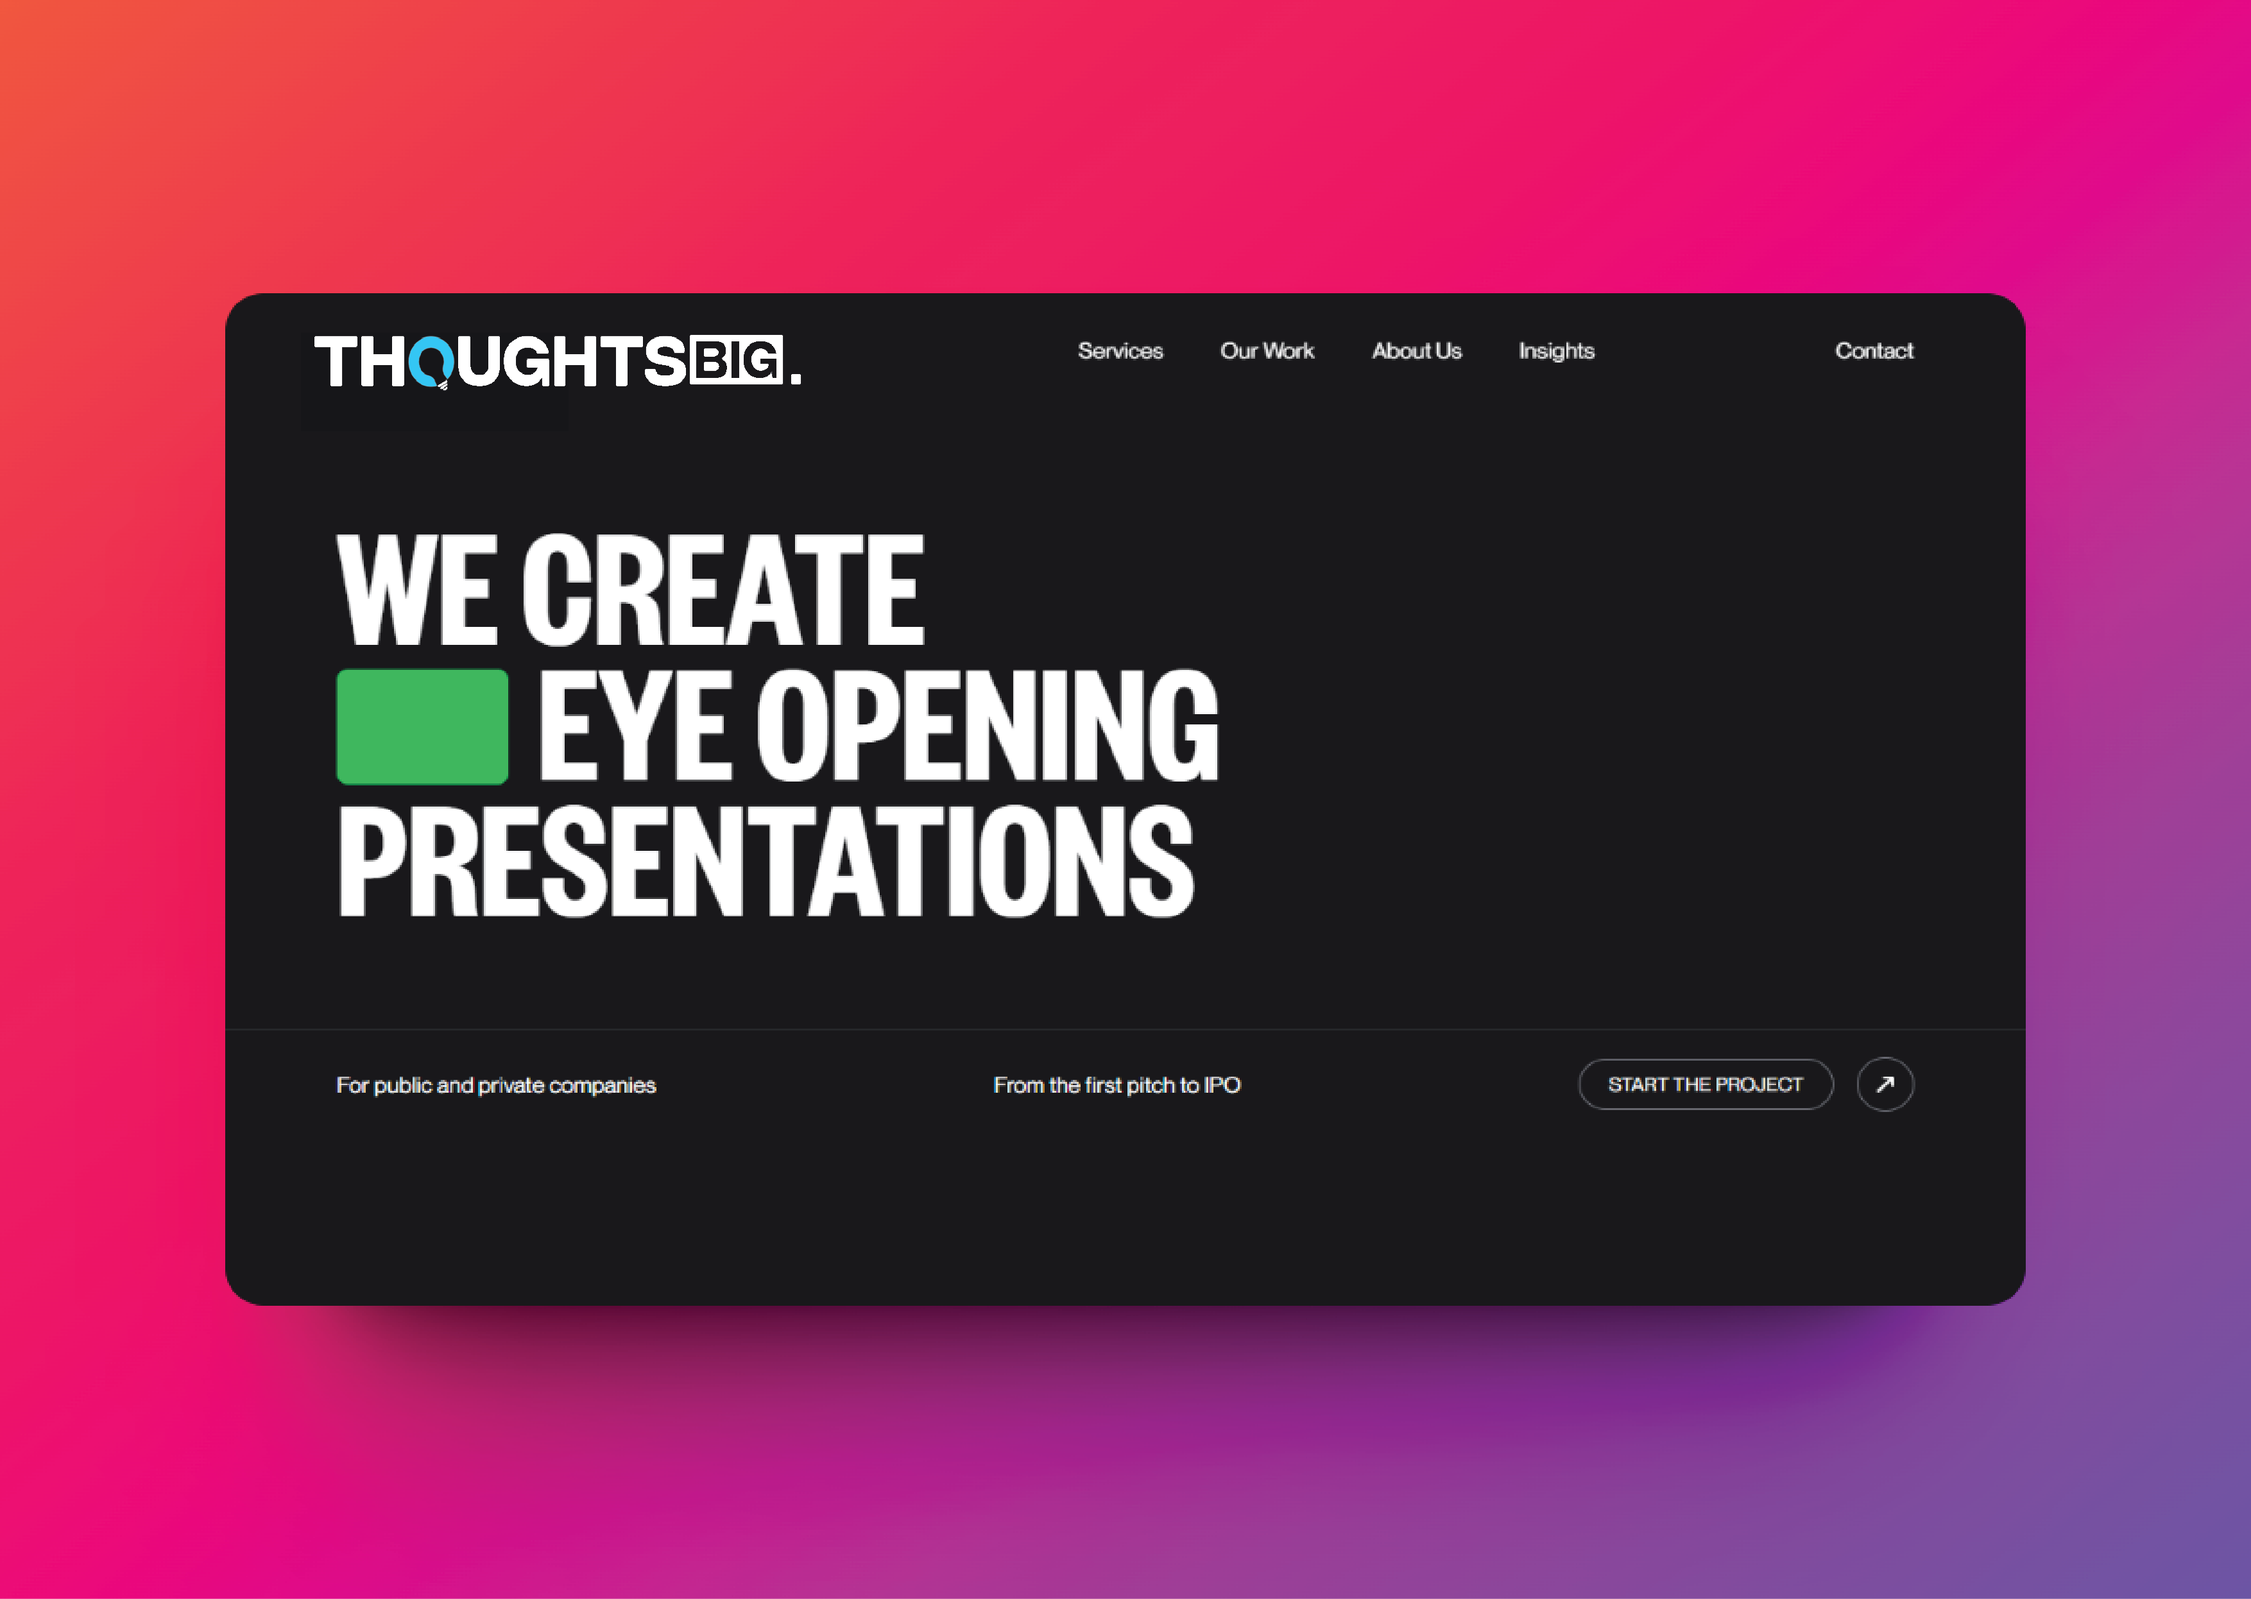
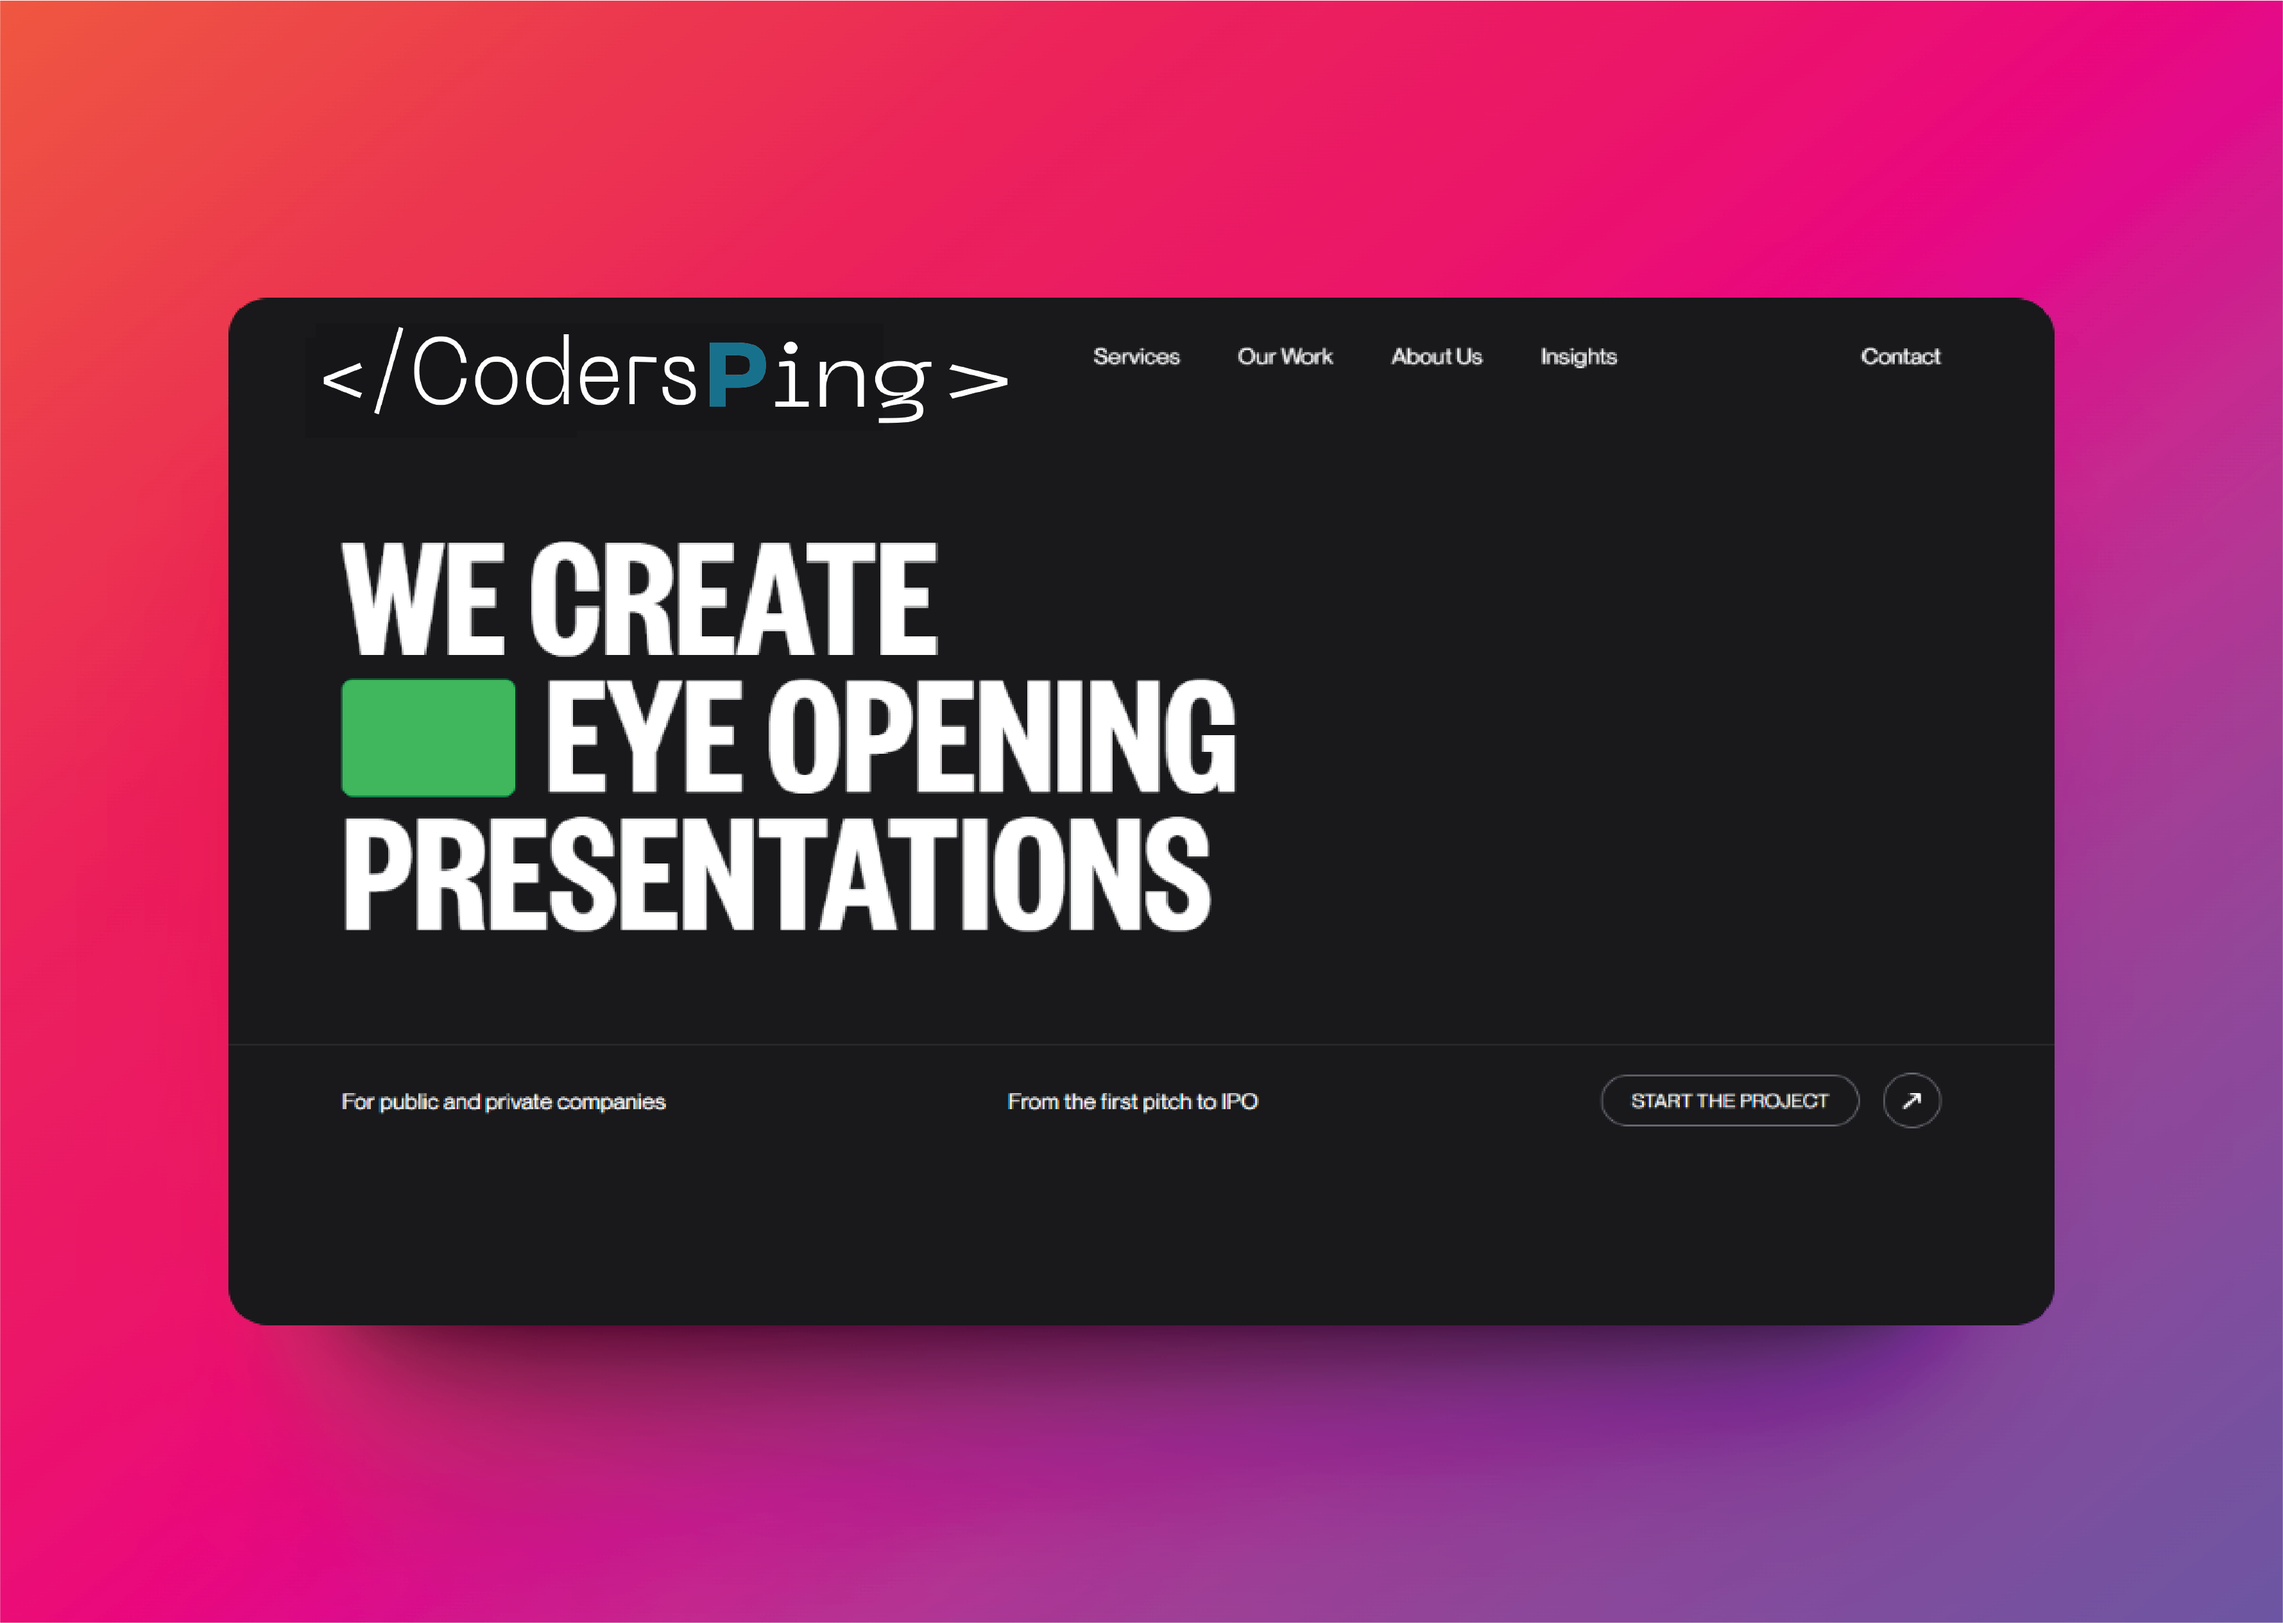
Cosmetic Changes has been made successfully

Changed region(s): [[0.1243, 0.1854, 0.435, 0.2781]]

diff --git a/src/components/About.jsx b/src/components/About.jsx
@@ -11,7 +11,7 @@ function About() {
     >
       <div className="container w-full">
         <h1 className="sm:text-3xl text-xl sm:leading-normal font-medium mb-10 border-b-[1px] border-zinc-700 pb-10">
-          Thoughts Big is a strategic partner for fast-growing tech businesses that
+          Coders Ping is a strategic partner for fast-growing tech businesses that
           need to raise funds, sell products, explain complex ideas, and hire
           great people.
         </h1>
@@ -19,7 +19,7 @@ function About() {
           <div className="about-text h-fit">
             <h1 className="text-4xl mb-4">Our approach:</h1>
             <p className="text-base sm:text-xl text-zinc-200 tracking-wide">
-              Our approach at Thoughts Big is tailored to empower fast-growing tech
+              Our approach at Coders Ping is tailored to empower fast-growing tech
               businesses by facilitating fundraising, product sales, simplifying
               complex concepts, and enabling effective talent acquisition.
             </p>

diff --git a/src/components/Marquee.jsx b/src/components/Marquee.jsx
@@ -16,7 +16,7 @@ function Marquee() {
           transition={{ ease: "linear", repeat: Infinity, duration: 5 }}
           className="font-FoundersGroteskCondensed mb-[3vw] pr-4"
         >
-          We are Thoughts Big ◦
+          We are Coders Ping ◦
         </motion.h1>
         <motion.h1
           initial={{ x: 0 }}
@@ -24,7 +24,7 @@ function Marquee() {
           transition={{ ease: "linear", repeat: Infinity, duration: 5 }}
           className="font-FoundersGroteskCondensed mb-[3vw] pr-4"
         >
-          We are Thoughts Big ◦
+          We are Coders Ping ◦
         </motion.h1>
         <motion.h1
           initial={{ x: 0 }}
@@ -32,7 +32,7 @@ function Marquee() {
           transition={{ ease: "linear", repeat: Infinity, duration: 5 }}
           className="font-FoundersGroteskCondensed mb-[3vw]"
         >
-          We are Thoughts Big ◦
+          We are Coders Ping ◦
         </motion.h1>
       </div>
     </div>

diff --git a/src/components/Cards.jsx b/src/components/Cards.jsx
@@ -6,7 +6,7 @@ function Cards() {
       <div className="card relative flex items-center justify-center lg:w-1/2 md:w-full h-96 bg-[#004D43] rounded-xl">
         <img
           src="https://ochi.design/wp-content/uploads/2022/04/logo001.svg"
-          alt="Thoughts Big"
+          
           className="w-[25%]"
         />
         <button className="absolute left-5 bottom-5 px-5 py-2 rounded-full border text-xs sm:text-base font-NueueMontreal border-zinc-200">
@@ -17,7 +17,7 @@ function Cards() {
         <div className="card relative flex items-center justify-center w-1/2 h-96 bg-[#293231] rounded-xl">
           <img
             src="https://ochi.design/wp-content/uploads/2022/04/logo002.svg"
-            alt="Thoughts Big"
+           
             className="w-[50%]"
           />
           <button className="absolute left-5 bottom-5 px-5 py-2 rounded-full border text-xs sm:text-base font-NueueMontreal border-zinc-200">

diff --git a/src/components/Featured.jsx b/src/components/Featured.jsx
@@ -47,7 +47,7 @@ function Featured() {
           <div  className="card w-full h-[300px] flex items-center rounded-xl overflow-hidden">
             <img
               className="w-full h-auto object-cover hover:scale-105 transition-all"
-              src="https://github.com/AniketAgni376/ThoughtsBig/blob/main/src/assets/images/c1.png"
+              src="\src\assets\images\c1.png"
               alt="featured"
             />
           </div>
@@ -77,7 +77,7 @@ function Featured() {
           <div className="card w-full h-[300px] flex items-center rounded-xl overflow-hidden">
             <img
               className="w-full h-auto object-cover hover:scale-105 transition-all"
-              src="https://github.com/AniketAgni376/ThoughtsBig/blob/main/src/assets/images/c2.png"
+              src='\src\assets\images\c2.png'
               alt="featured"
             />
           </div>

diff --git a/src/components/Navbar.jsx b/src/components/Navbar.jsx
@@ -15,7 +15,7 @@ function Navbar() {
     <div className="sticky bg-zinc-900/40 backdrop-blur-md top-0 z-[999] py-4 sm:py-5">
       <div className="container w-full font-NueueMontreal flex items-center justify-between">
         <div className="logo">
-          <img src={Logo} className="w-[200px]" alt="thoughts big logo" />
+          <img src={Logo} className="w-[200px]" />
         </div>
         <div className="links items-center gap-10 hidden md:flex">
           {navLinks.map((item, index) => (

diff --git a/src/components/Footer.jsx b/src/components/Footer.jsx
@@ -30,7 +30,7 @@ function Footer() {
             )}
           </div>
           <div className="flex justify-between font-NueueMontreal">
-            <p>© THOUGHTS BIG 2025.</p>
+            <p>© Coders Ping 2025.</p>
             <p>Website by Anonymous Buzzz</p>
           </div>
         </div>
